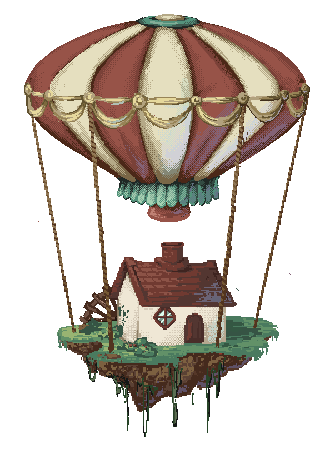
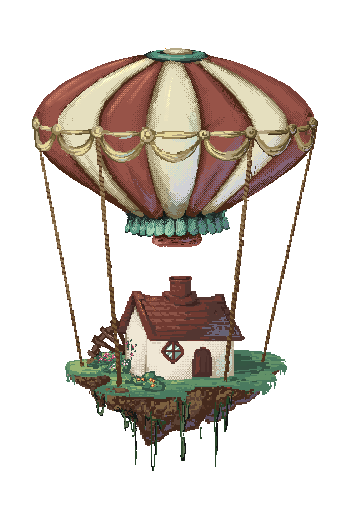
fixed balloon loading screen, removed extra audio listener, disabled cloud listener, disabled goal count indicator

diff --git a/Assets/WebGLTemplates/Compersion/TemplateData/style.css b/Assets/WebGLTemplates/Compersion/TemplateData/style.css
@@ -5,8 +5,8 @@ body { padding: 0; margin: 0 }
 #unity-canvas { background: #231F20 }
 .unity-mobile #unity-canvas { width: 100%; height: 100% }
 #unity-loading-bar { position: absolute; left: 50%; top: 50%; transform: translate(-50%, -50%); display: none }
-#unity-logo { width: 154px; height: 130px; background: url('balloon-koi-192.png') no-repeat center / contain }
-#unity-progress-bar-empty { width: 141px; height: 18px; margin-top: 10px; margin-left: 6.5px; background: url('progress-bar-empty-dark.png') no-repeat center }
+#unity-logo { width: 349px; height: 510px; max-width: 80vw; max-height: 65vh; background: url('balloon_koi.png') no-repeat center / contain }
+#unity-progress-bar-empty { width: 141px; height: 18px; margin: 10px auto 0; background: url('progress-bar-empty-dark.png') no-repeat center }
 #unity-progress-bar-full { width: 0%; height: 18px; margin-top: 10px; background: url('progress-bar-full-dark.png') no-repeat center }
 #unity-footer { position: relative }
 .unity-mobile #unity-footer { display: none }

diff --git a/Assets/WebGLTemplates/Compersion/ServiceWorker.js b/Assets/WebGLTemplates/Compersion/ServiceWorker.js
@@ -17,6 +17,7 @@ const contentToCache = [
     "TemplateData/compersion-favicon-32.png?v=" + version,
     "TemplateData/favicon.ico?v=" + version,
     "TemplateData/compersion-apple-touch-icon.png?v=" + version,
+    "TemplateData/balloon_koi.png",
     "TemplateData/balloon-koi-192.png?v=" + version,
     "TemplateData/balloon-koi-512.png?v=" + version,
     "TemplateData/progress-bar-empty-dark.png",

diff --git a/Assets/Scripts/UI/GoalDirectionIndicator.cs b/Assets/Scripts/UI/GoalDirectionIndicator.cs
@@ -75,7 +75,7 @@ public class GoalDirectionIndicator : MonoBehaviour
                 gameServices.onPlayerRegistered += TrySetPlayerInformation;
         }
 
-        SyncGoalCountLabel();
+        // SyncGoalCountLabel();
     }
 
     void OnDestroy()
@@ -133,7 +133,7 @@ public class GoalDirectionIndicator : MonoBehaviour
         }
 
         SetVisible(true);
-        SyncGoalCountLabel();
+        // SyncGoalCountLabel();
 
         Vector3 playerViewport = cam.WorldToViewportPoint(player.position);
         Vector3 goalViewport = cam.WorldToViewportPoint(goal.Location);
@@ -189,7 +189,7 @@ public class GoalDirectionIndicator : MonoBehaviour
         _viewportTrackedGoal = null;
         ResetHoverState(false);
         SetVisible(false);
-        SyncGoalCountLabel();
+        // SyncGoalCountLabel();
     }
 
     void SyncGoalCountLabel()
